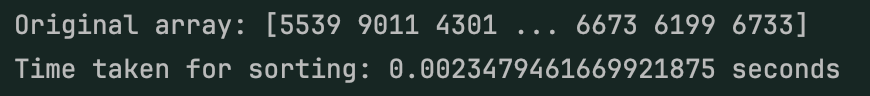
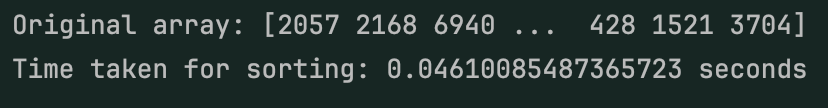
UPDATE: sample_sort_ser.py ADDED: obrazky

Changed region(s): [[0.0, 0.5312, 0.9964, 0.875], [0.0, 0.0938, 0.9964, 0.4062]]

diff --git a/sample_sort_ser.py b/sample_sort_ser.py
@@ -1,53 +1,52 @@
-import random
 import time
 import numpy as np
 
-def sample_sort(A, k, p, threshold):
-    n = len(A)
+def insertion_sort(arr):
+    for i in range(1, len(arr)):
+        key = arr[i]
+        j = i - 1
+        while j >= 0 and key < arr[j]:
+            arr[j + 1] = arr[j]
+            j -= 1
+        arr[j + 1] = key
 
-    if n / k < threshold:
-        A.sort()
-        return A
 
-    if k >= n:
-        S = sorted(A)
-    else:
-        S = [random.sample(A, k) for _ in range(p)]  # Randomly select k samples for each set
-        S = [item for sublist in S for item in sublist]  # Flatten the list of samples
-        S.sort()  # Sort the samples
+def sample_sort(arr):
+    # Determine the number of samples
+    num_samples = int(len(arr) ** 0.5)
 
-    # Generate splitters
-    splitters = [float('-inf')] + [S[i * k] for i in range(1, p)] + [float('inf')]
+    # Step 1: Sample the data
+    samples = sorted([arr[i] for i in range(0, len(arr), len(arr) // num_samples)])
 
-    buckets = [[] for _ in range(p)]
-    for a in A:
-        for j in range(1, len(splitters)):
-            if splitters[j - 1] < a <= splitters[j]:
-                buckets[j - 1].append(a)
+    # Step 2: Broadcast the samples to all processes
+    samples = [samples[i * len(samples) // num_samples] for i in range(num_samples)]
+
+    # Step 3: Each process partitions its data based on the sample points
+    partitions = [[] for _ in range(num_samples + 1)]
+    for num in arr:
+        for i in range(num_samples):
+            if num < samples[i]:
+                partitions[i].append(num)
                 break
-
-    stack = [(bucket, k, p, threshold) for bucket in buckets]
-    sorted_buckets = []
-    while stack:
-        bucket, k, p, threshold = stack.pop()
-        if len(bucket) > 1:
-            S = sample_sort(bucket, k, p, threshold)
-            sorted_buckets.extend(S)
         else:
-            sorted_buckets.extend(sorted(bucket))
+            partitions[num_samples].append(num)
 
-    return sorted_buckets
+    # Step 4: Sort each partition individually
+    sorted_partitions = []
+    for part in partitions:
+        insertion_sort(part)
+        sorted_partitions.extend(part)
+
+    return sorted_partitions
 
 
-A = np.random.randint(0, 10000, size=10000)
-n = 10
-k = 5
-threshold = 10000
+# Example usage:
+arr = np.random.randint(0, 10000, size=10)
+print("Original array:", arr)
 
-print("Original array:", A)
 start_time = time.time()  # Record start time
-sorted_A = sample_sort(A,n,k, threshold)
+sorted_arr = sample_sort(arr)
 end_time = time.time()  # Record end time
 print("Time taken for sorting:", end_time - start_time, "seconds")
-print("Sorted array:", sorted_A)
 
+#print("Sorted array:", sorted_arr)
